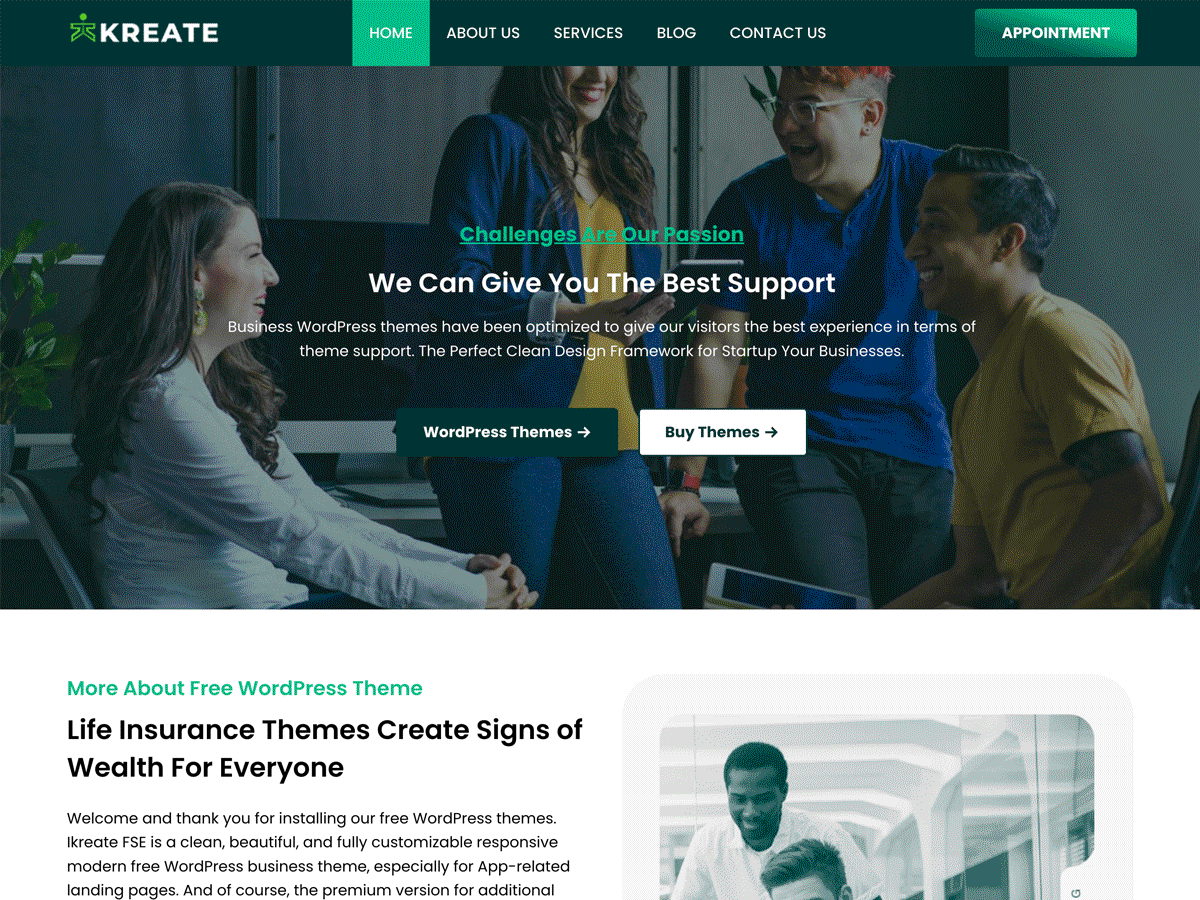
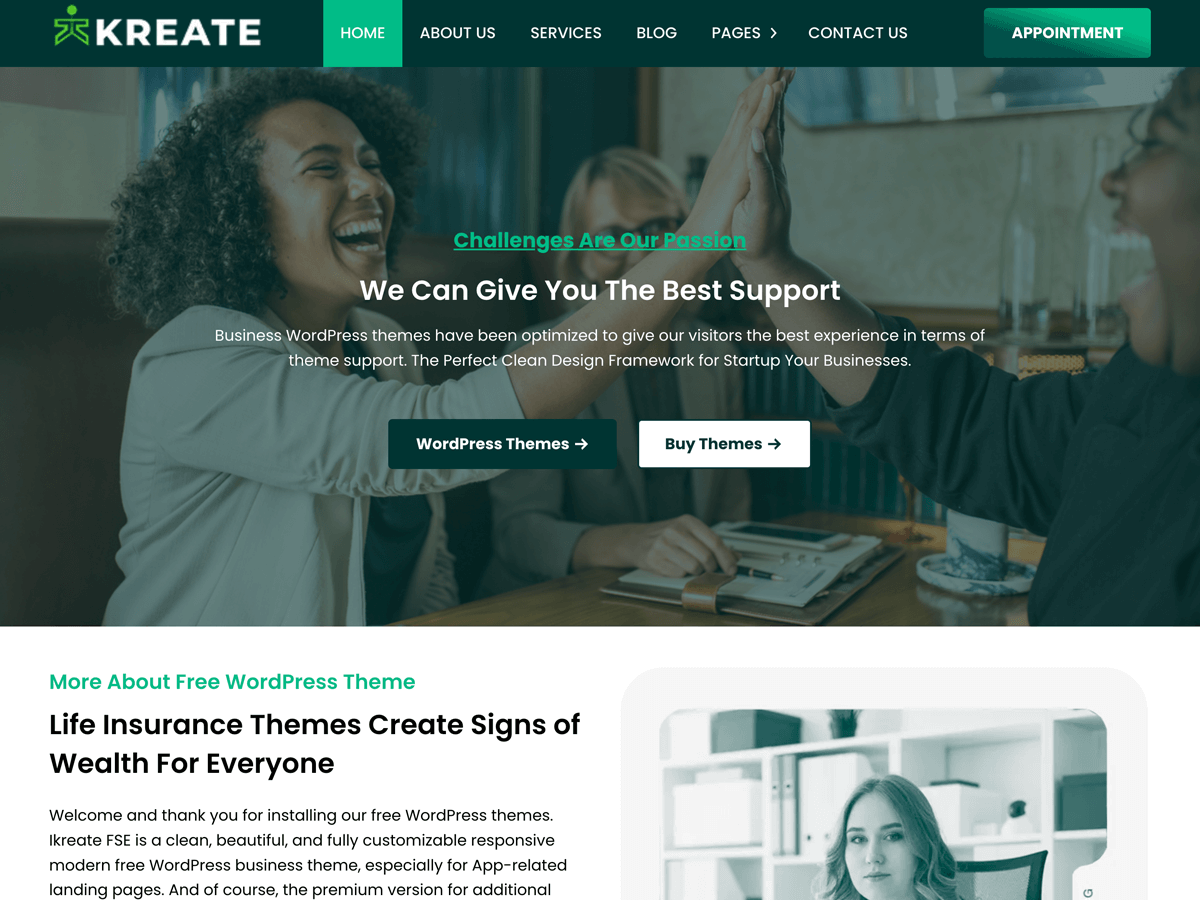
Fixed Skip and Remove Pexels Image

diff --git a/style.css b/style.css
@@ -4,7 +4,7 @@ Theme URI: https://ikreatethemes.com/wordpress-themes/ikreate-fse-full-site-edit
 Author: ikreatethemes
 Author URI: https://ikreatethemes.com/
 Description: Ikreate FSE is a fast and clean multi-purpose free WordPress theme, designed for various business-related websites. You can utilize this theme to launch a business, showcase your services, and enhance your website without the need for any coding experience. Ikreate FSE boasts 25+ pattern blocks and pre defind templates, providing users with additional design options for their website. Ikreate FSE is also responsive, browser compatible, SEO-friendly, RTL compatible, speed-optimized, and translation-ready. These elements ensure that your website is easily accessible, user-friendly, and search engine optimized, facilitating your target audience in finding your company online. If you encounter any issues while using our theme, you can refer to our theme documentation or reach out to our friendly support staff at [https://ikreatethemes.com/support/].
-Version: 1.0.3
+Version: 1.0.4
 Requires at least: 5.9
 Tested up to: 6.5
 Requires PHP: 7.2

diff --git a/templates/home.html b/templates/home.html
@@ -1,5 +1,9 @@
 <!-- wp:template-part {"slug":"header","theme":"ikreate-fse","tagName":"header","className":"site-header"} /-->
 
-    <!-- wp:pattern {"slug":"ikreate-fse/home-page"} /-->
+    <!-- wp:group {"tagName":"main","style":{"spacing":{"margin":{"top":"0","bottom":"0"}}}} -->
+        <main class="wp-block-group" style="margin-top:0;margin-bottom:0">
+            <!-- wp:pattern {"slug":"ikreate-fse/home-page"} /-->
+        </main>
+    <!-- /wp:group -->
 
 <!-- wp:template-part {"slug":"footer","theme":"ikreate-fse","tagName":"footer","className":"footer-header"} /-->

diff --git a/patterns/team.php b/patterns/team.php
@@ -90,7 +90,7 @@
 <!-- wp:column -->
 <div class="wp-block-column"><!-- wp:group {"style":{"border":{"radius":{"bottomLeft":"10px","bottomRight":"10px"}},"spacing":{"blockGap":"0"}},"className":"box box-shadow","layout":{"type":"constrained"}} -->
 <div class="wp-block-group box box-shadow" style="border-bottom-left-radius:10px;border-bottom-right-radius:10px"><!-- wp:image {"id":3126,"sizeSlug":"full","linkDestination":"custom","style":{"color":[]}} -->
-<figure class="wp-block-image size-full"><a href="#"><img src="<?php echo esc_url( get_template_directory_uri() ); ?>/assets/images/team/team-4-ik.webp" alt="" class="wp-image-3126"/></a></figure>
+<figure class="wp-block-image size-full"><a href="#"><img src="<?php echo esc_url( get_template_directory_uri() ); ?>/assets/images/team/team-3-ik.webp" alt="" class="wp-image-3126"/></a></figure>
 <!-- /wp:image -->
 
 <!-- wp:group {"style":{"spacing":{"blockGap":"0","padding":{"top":"var:preset|spacing|40","bottom":"var:preset|spacing|40"}}},"layout":{"type":"flex","orientation":"vertical","justifyContent":"center"}} -->

diff --git a/patterns/team-one.php b/patterns/team-one.php
@@ -147,7 +147,7 @@
 <div class="wp-block-column box-shadow"><!-- wp:columns {"style":{"spacing":{"blockGap":{"left":"var:preset|spacing|20"}}}} -->
 <div class="wp-block-columns"><!-- wp:column {"verticalAlignment":"center","width":"50%","className":"box"} -->
 <div class="wp-block-column is-vertically-aligned-center box" style="flex-basis:50%"><!-- wp:image {"id":3501,"sizeSlug":"full","linkDestination":"none"} -->
-<figure class="wp-block-image size-full"><img src="<?php echo esc_url( get_template_directory_uri() ); ?>/assets/images/team/team-1-ik.webp" alt="" class="wp-image-3501"/></figure>
+<figure class="wp-block-image size-full"><img src="<?php echo esc_url( get_template_directory_uri() ); ?>/assets/images/team/team-3-ik.webp" alt="" class="wp-image-3501"/></figure>
 <!-- /wp:image --></div>
 <!-- /wp:column -->
 
